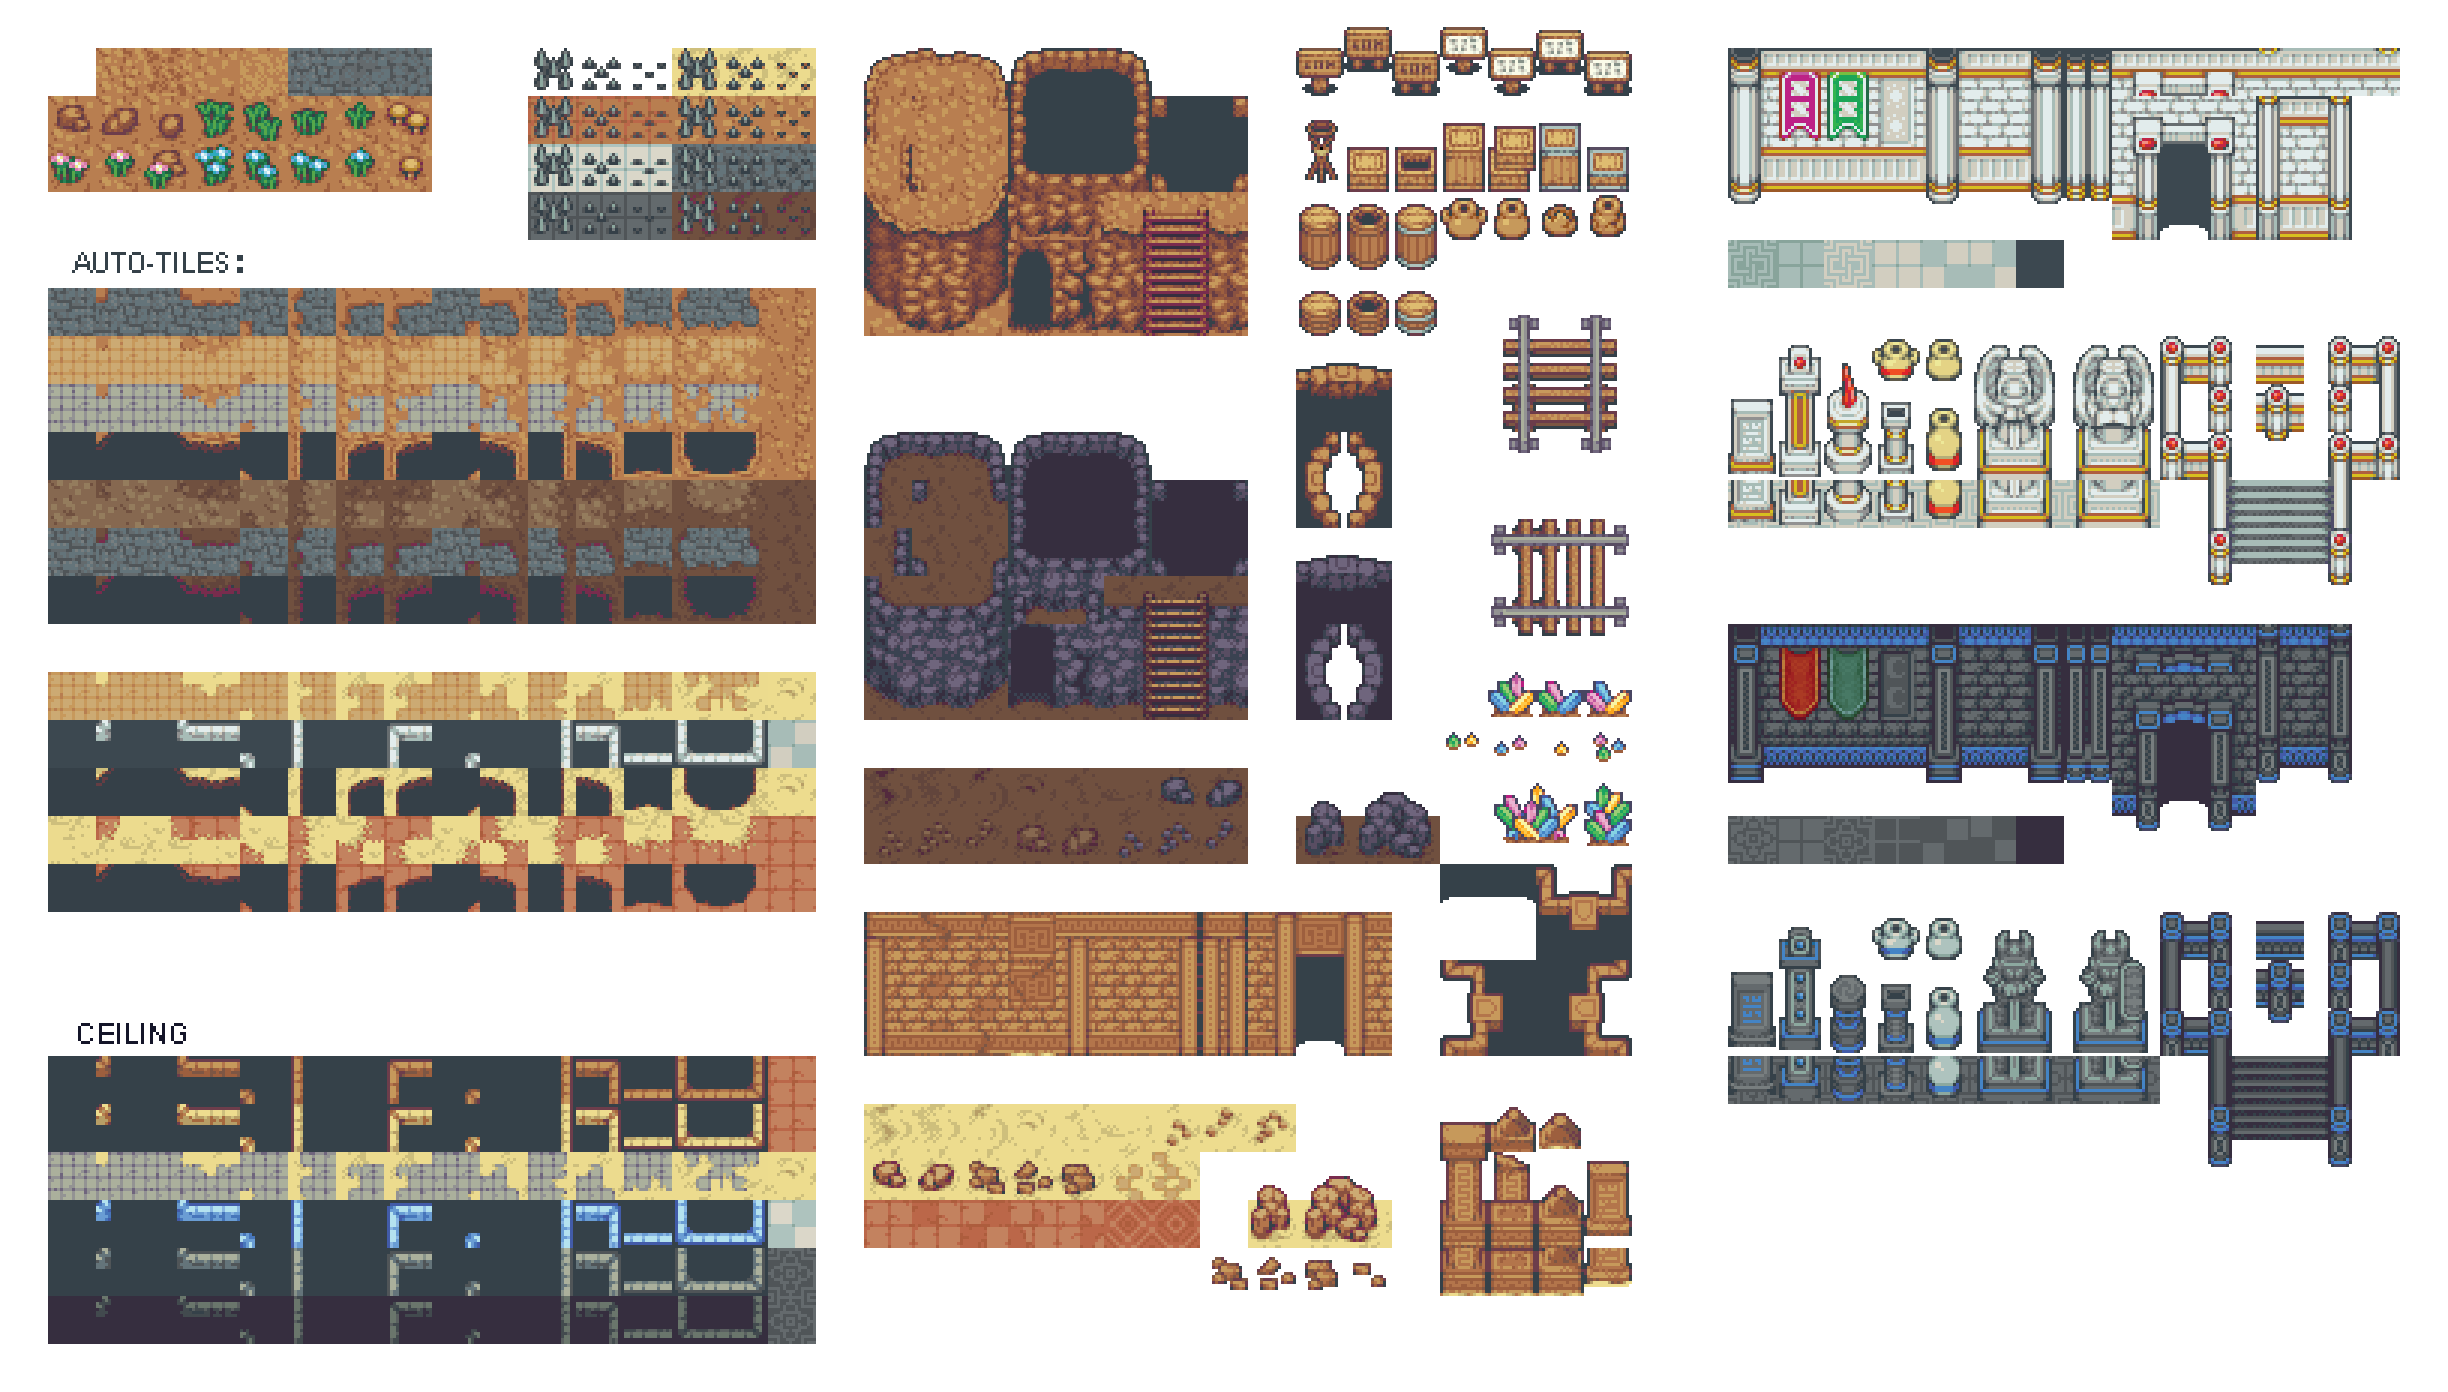
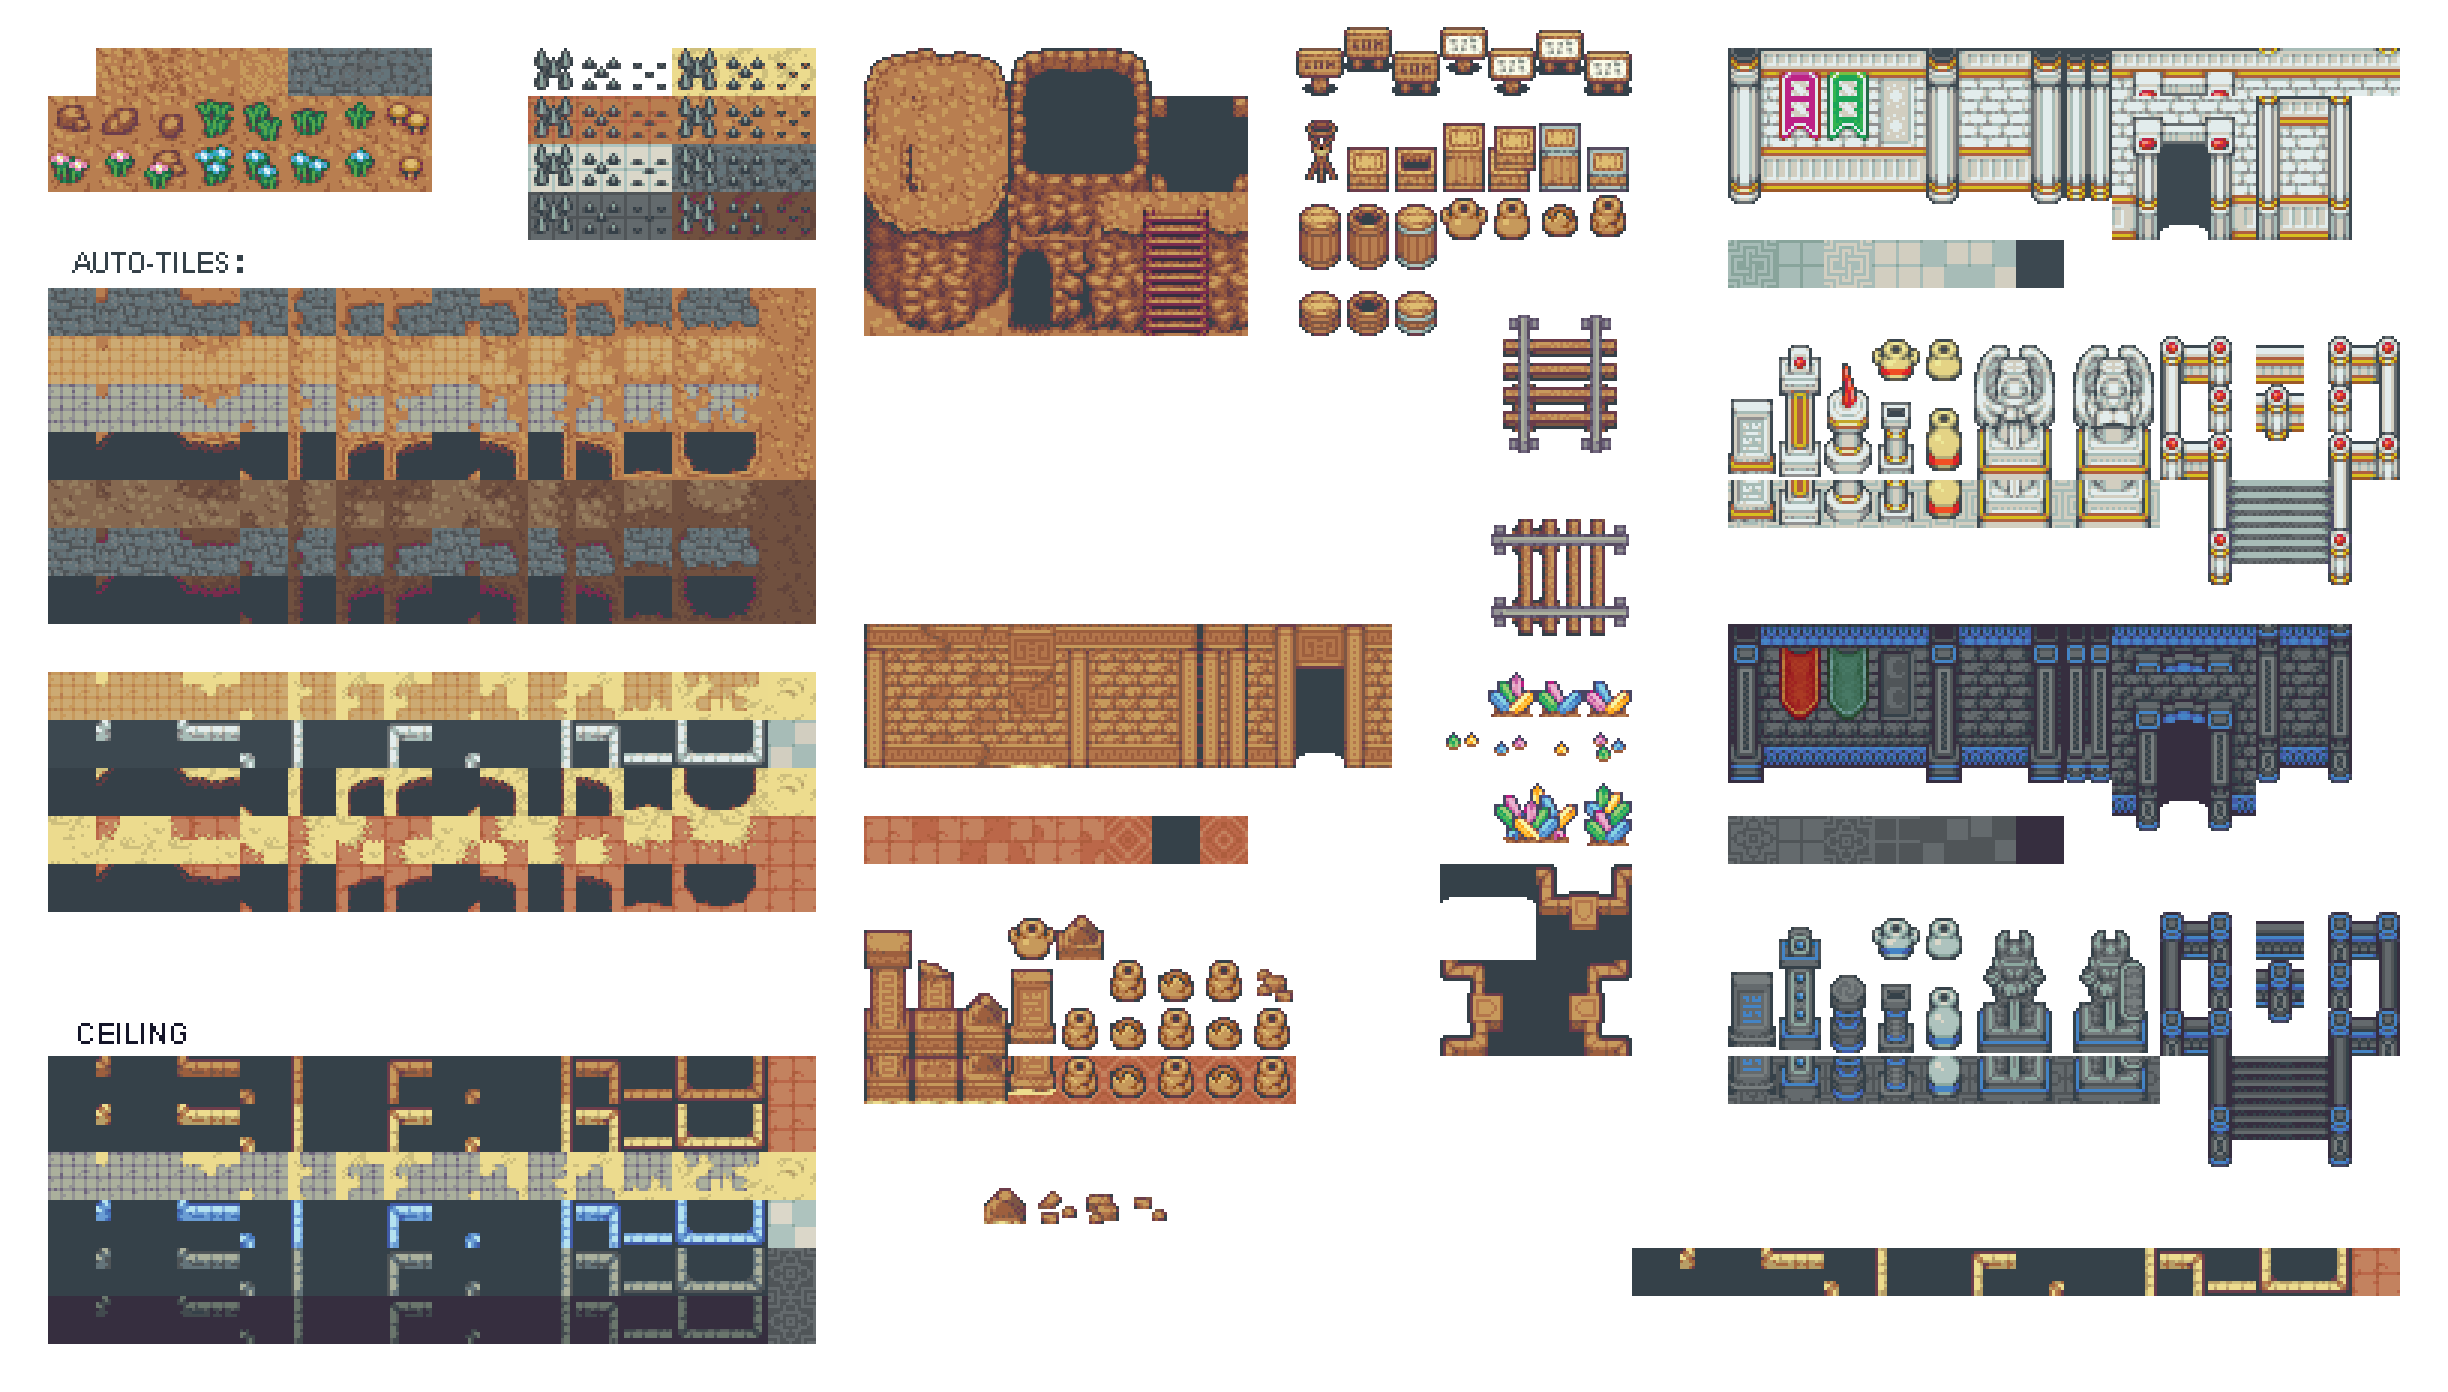
Added new scenery for 1-3.

Changed region(s): [[0.3415, 0.6487, 0.9935, 0.9576], [0.3415, 0.2471, 0.5899, 0.6178]]

diff --git a/Projects/OmniBlade/Assets/Field/TileMaps/TombInner.tsx b/Projects/OmniBlade/Assets/Field/TileMaps/TombInner.tsx
@@ -109,4 +109,29 @@
    <property name="C" value=""/>
   </properties>
  </tile>
+ <tile id="885">
+  <properties>
+   <property name="C" value=""/>
+  </properties>
+ </tile>
+ <tile id="886">
+  <properties>
+   <property name="C" value=""/>
+  </properties>
+ </tile>
+ <tile id="887">
+  <properties>
+   <property name="C" value=""/>
+  </properties>
+ </tile>
+ <tile id="888">
+  <properties>
+   <property name="C" value=""/>
+  </properties>
+ </tile>
+ <tile id="889">
+  <properties>
+   <property name="C" value=""/>
+  </properties>
+ </tile>
 </tileset>
